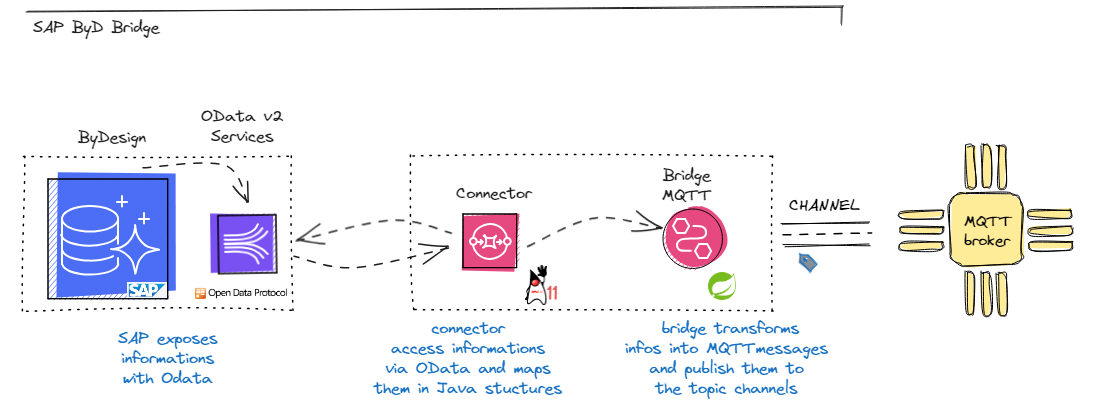
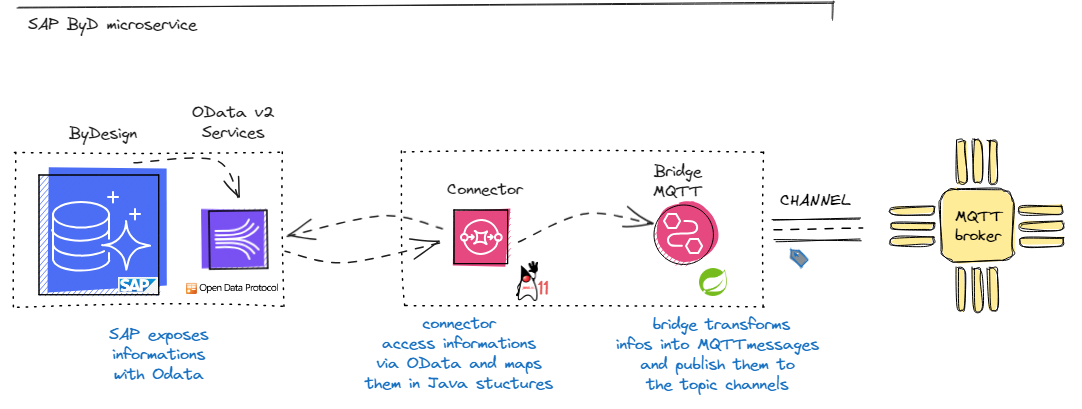
Version 2.0

diff --git a/sapbydbridge-main/README.md b/sapbydbridge-main/README.md
@@ -1,33 +1,37 @@
-# SAPByDBridge
+# ByDesign Microservice
 
+In this project the microservice is built with integrating a onnector ad a bridge. 
+Built in Java v.11, the connector allows access to services and information residing
+in an SAP ERP (SAP ByDesign product). 
+The connector utilizes the OData protocol to query and manipulate ERP data. 
+Additionally, a bridge uses the Spring framework to interact with an MQTT 
+(Message Queuing Telemetry Transport) broker and expose the services, 
+mediated by the connector, to other systems.
 
-In questo progetto  un connettore realizzato in Java (versione 11)  permette di accedere ai servizi ed alle informazioni residenti in un ERP SAP (prodotto SAP ByDesign). Il connettore utilizza il protocollo OData per interrogare e manipolare i dati dell'ERP. Inoltre un bridge utilizza il framework Spring per interagire con un broker MQTT (Message Queuing Telemetry Transport) ed esporre i servizi, mediati dal connettore,verso altri sistemi . 
+## Examples of Possible Usage
+Through OData, it is possible to query SAP products, sales orders, invoices, warehouse stock, etc., which a company has recorded in the ERP. This information can be made available to services registered on MQTT, such as billing services, quality controls, e-commerce, etc.
 
+## MQTT
+MQTT (Message Queuing Telemetry Transport) is a lightweight messaging protocol based on 
+a publish/subscribe model, allowing devices to publish messages on specific
+topics and recipients to subscribe to receive them.
 
-
+![MQTT](/sapbydesign/src/main/resources/MQTT.png)
 ## OData
 
-OData (Open Data Protocol) è un protocollo aperto che consente la creazione e il consumo di API RESTful interrogabili e interoperabili in modo semplice e standardizzato. Il recupero e la modifica dei dati viene eseguita con chiamate di servizio basate su URL.
+OData (Open Data Protocol) is an open protocol that allows the creation and consumption of RESTful APIs that are queryable and interoperable in a simple and standardized way. The retrieval and modification of data are performed using URL-based service calls.
+## SAP and OData
 
-## SAP e OData
+SAP allows the creation of OData services based on its Business Objects, generating a metadata representation in XML format.
+## Generation of Java Client and Connector
 
-SAP permette di creare dei servizi OData a partire dai suoi Business Object, generandone una rappresentazione metadata in formato XML. 
+The metadata is used to generate, in this case, a Java client that represents SAP Business Objects and their connected services. This process automates the client's creation, making the system easily adaptable to any changes in the ERP's data model. The connector created in the project uses the client (representation of SAP BOs and connected services) to access the ERP and query/modify the system through RESTful calls with authentication.
+## Integration in MQTT
 
-## Generazione del Client Java e del connettore 
-
-I metadata sono utilizzati per generare, in questo caso, un client Java che rappresenta i Business Object SAP ed i servizi connessi.
-Questo processo automatizza la creazione del client, rendendo il sistema facilmente adattabile a qualsiasi cambiamento nel modello dei dati dell'ERP.
-Il connettore creato nel progetto utilizza il client ( rappresentazione  dei BO SAP ed i servizi connessi) per accedere all' ERP ed interrogare/modificare il sistema tramite chiamate RESTFull con autenticazione. 
-
-## Integrazione con MQTT
-
-Il bridge creato nle progetto utilizza il framework Spring per registrarsi ad un broker MQTT ed interagire con esso in modalità asincrona. Le informazioni  recuperate dall'ERP vengono inviate al broker tramite messaggi e viceversa il broker può chiedere al bridge di accedere ai servizi esposti da SAP. Il compito del bridge è anche quello di tradurre gli oggetti del client in stutture normalizzate sul broker uniformando le comunicazioni tra i diversi servizi registrati sul broker.
-
-## Esempi di possibili utilizzo 
-
-Tramite OData è possibile interrogare in SAP prodotti, ordini di vendita, fatture, giacenze magazzino ecc. che un'azienda ha registrate sull'ERP. Queste informazioni possono essere messe a disposizione di servizi registrati sull'MQTT, come servizi di fatturazione, controlli di qualità, ecommerce ecc.
+The bridge created in the project uses the Spring framework to register with an MQTT broker and interact with it asynchronously. The information retrieved from the ERP is sent to the broker through messages, and vice versa, the broker can request the bridge to access services exposed by SAP. The bridge's task is also to translate the client objects into standardized structures on the broker, thereby standardizing communications between the different services registered on the broker.
 
 
-## Licenza
+#### Microservice overview
+![Microservice](/sapbydesign/src/main/resources/Connettore.png)
 
-// Inserisci qui le informazioni sulla licenza del tuo progetto.
+
